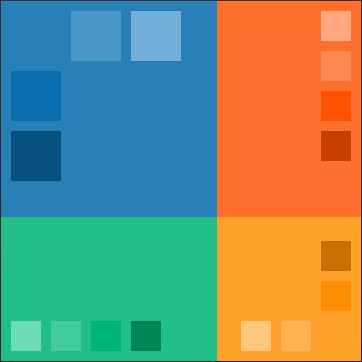
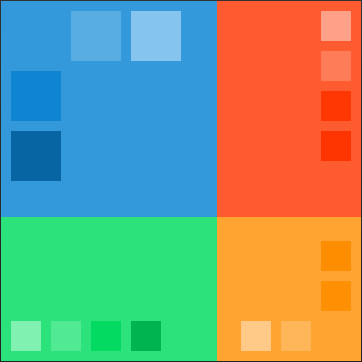
Removed Old Pallet.

diff --git a/UI/Presentation/MainWindow.xaml b/UI/Presentation/MainWindow.xaml
@@ -5,18 +5,23 @@
         xmlns:mc="http://schemas.openxmlformats.org/markup-compatibility/2006"
         xmlns:local="clr-namespace:Presentation"
         mc:Ignorable="d"
-        Title="MainWindow" Height="350" Width="525">
+        Title="MainWindow" Height="720" Width="1250">
     <Grid>
         <Grid.RowDefinitions>
-            <RowDefinition Height="35"/>
+            <RowDefinition Height="65"/>
             <RowDefinition Height="*"/>
         </Grid.RowDefinitions>
         <Grid.ColumnDefinitions>
-            <ColumnDefinition Width="35"/>
-            <ColumnDefinition Width="123"/>
-            <ColumnDefinition Width="2"/>
+            <ColumnDefinition Width="65"/>
+            <ColumnDefinition Width="270"/>
+            <ColumnDefinition Width="Auto"/>
             <ColumnDefinition Width="*"/>
         </Grid.ColumnDefinitions>
-        <Border Background="#2980B9" Grid.RowSpan="2"></Border>
+        <Border Background="#3498db" Grid.RowSpan="2"></Border>
+        <Border Background="#ebebeb" Grid.Column="3"></Border>
+        <Border Background="#ebebeb" Grid.Column="1" Grid.Row="1" Grid.ColumnSpan="2"></Border>
+        <Rectangle Grid.Column="2" Grid.RowSpan="2" Width="5" Fill="#ebebeb" Cursor="SizeWE"/><!--d8d8d8-->
+        <Border Background="#f2f2f2" Grid.Column="3" Grid.Row="1"></Border>
+        <Border Background="#FFE0E0E0" Grid.Column="1" Grid.ColumnSpan="2"></Border> 
     </Grid>
 </Window>
